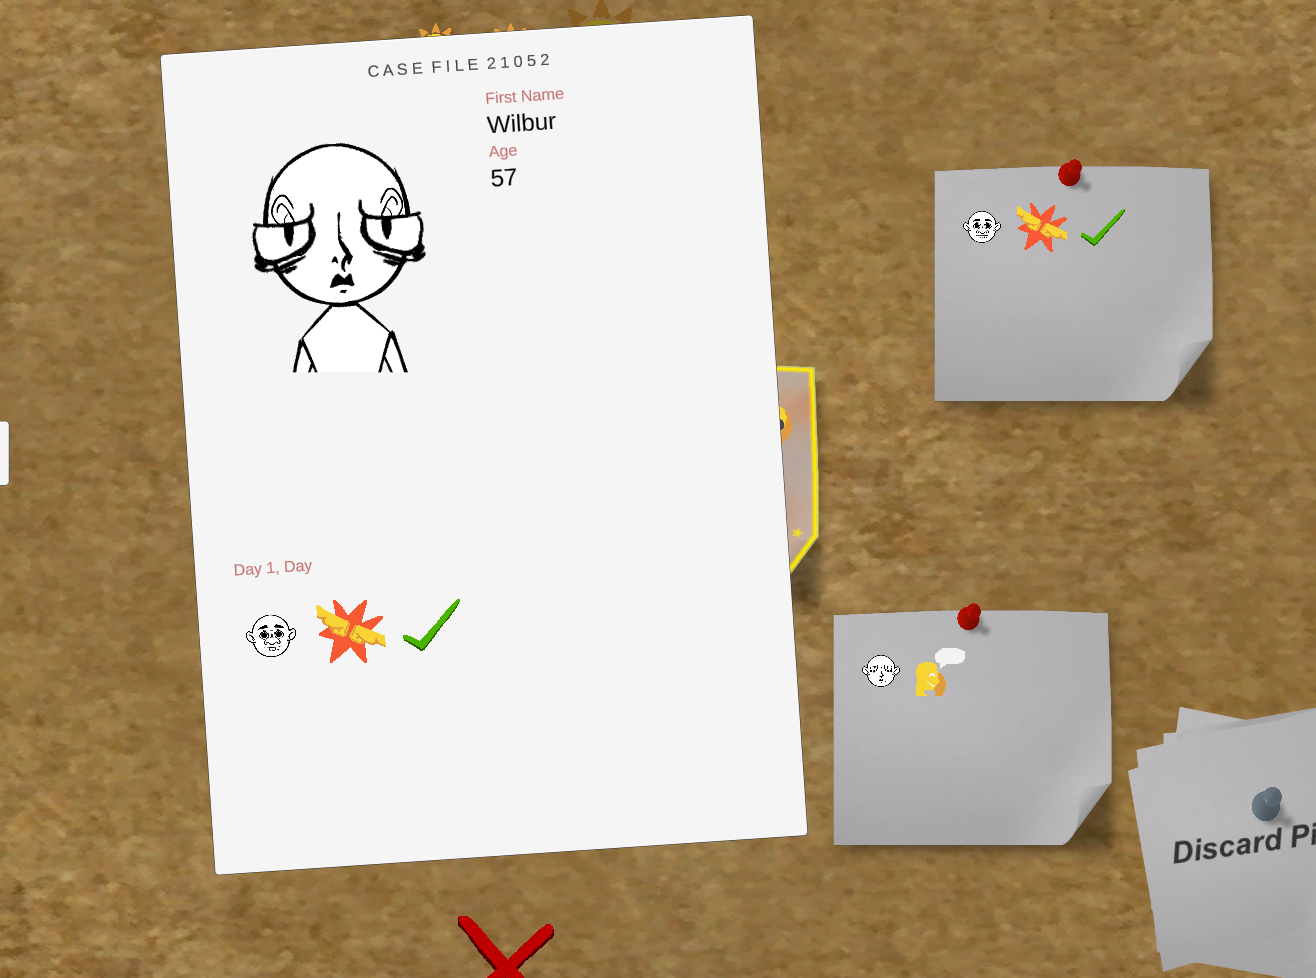
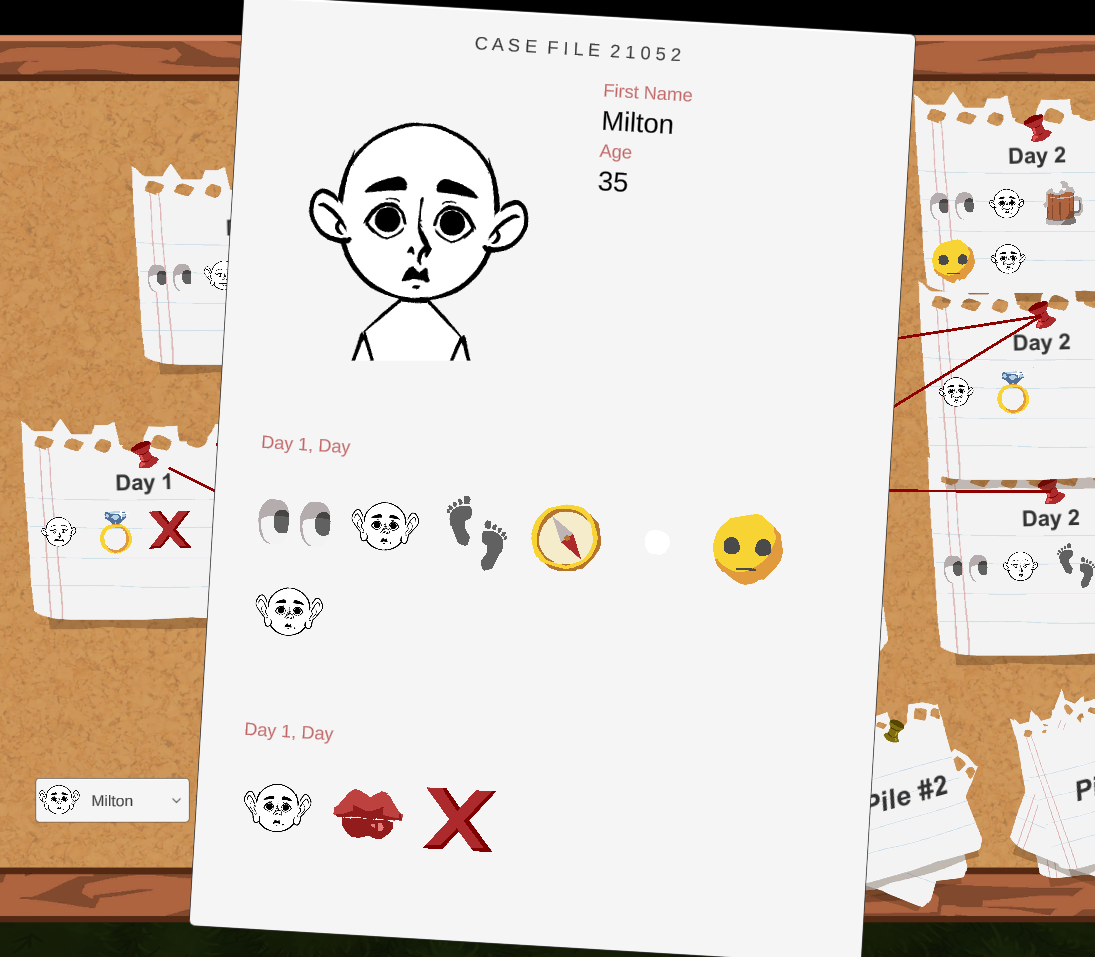
ghosts no longer lie + updated tutorial

diff --git a/Assets/Scripts/MysterySystem/ClueManager.cs b/Assets/Scripts/MysterySystem/ClueManager.cs
@@ -133,7 +133,7 @@ public class ClueManager : MonoBehaviour
                 // Getting further into the game, the ghosts will potentially lie less often (no decrease on the first day)
                 fLieChance -= Service.Config.GhostLieChanceFalloffPerDay * (Service.Game.CurrentDay - 1);
 
-                bool bShouldGenerateALie = fLieChance > 0.0f && UnityEngine.Random.Range(0.0f, 100.0f) < fLieChance;
+                bool bShouldGenerateALie = false; // fLieChance > 0.0f && UnityEngine.Random.Range(0.0f, 100.0f) < fLieChance;
 
                 // 1) Generate ghost visual clue
                 GenerateGhostVisualClue(currentPhase, c, bShouldGenerateALie);
